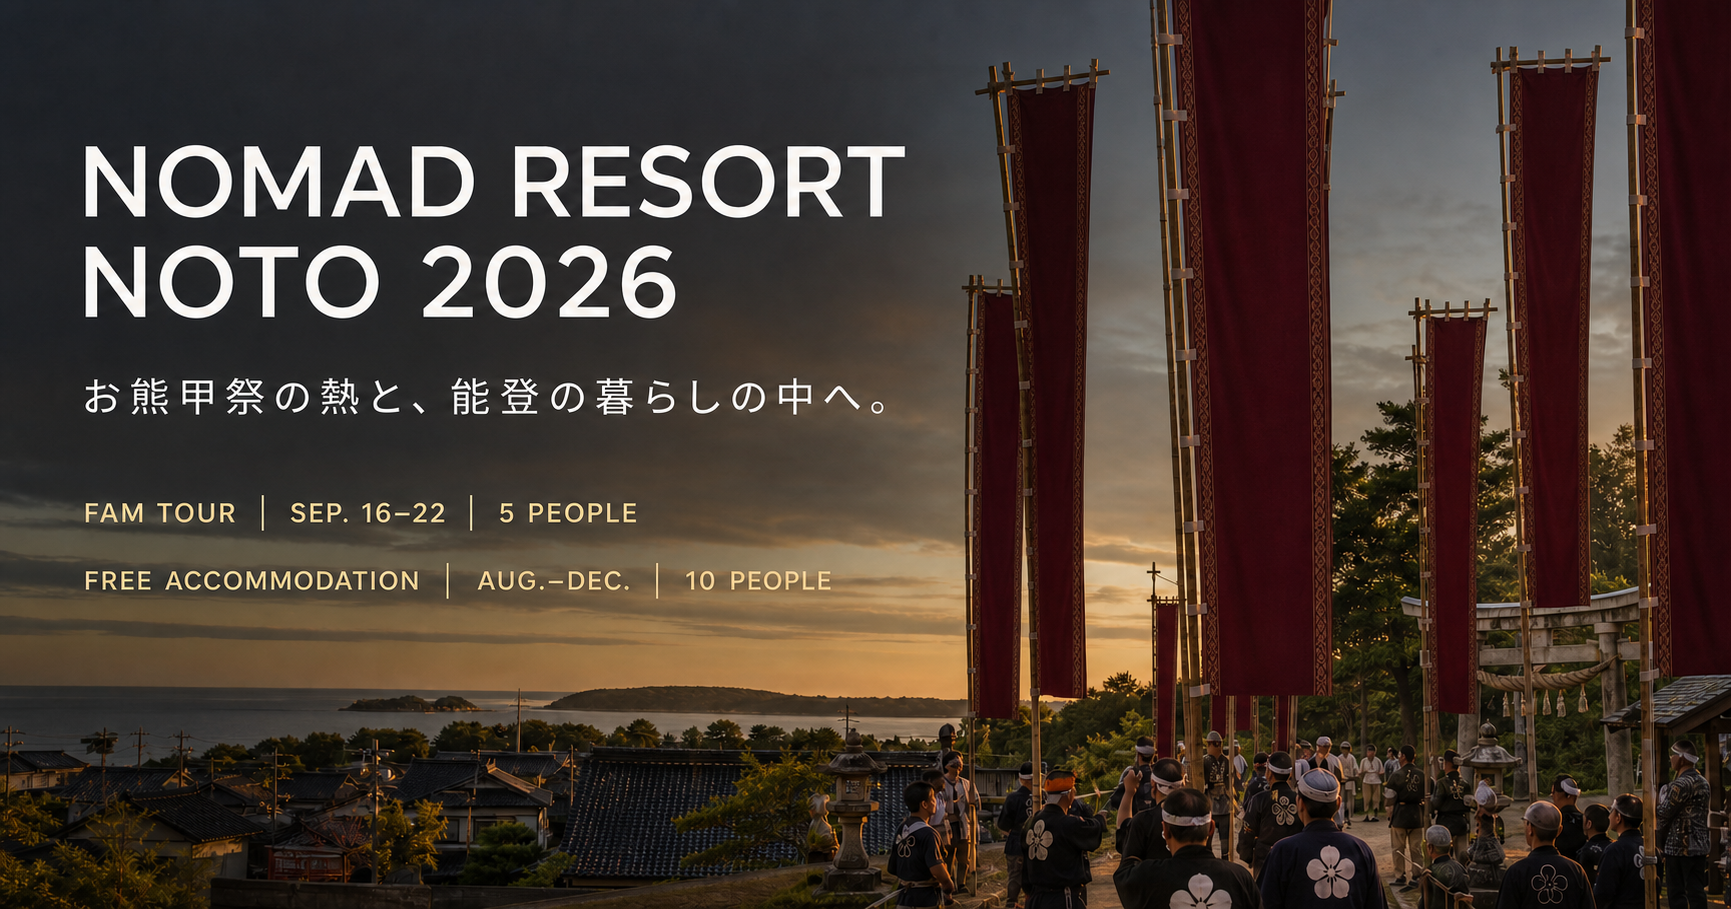
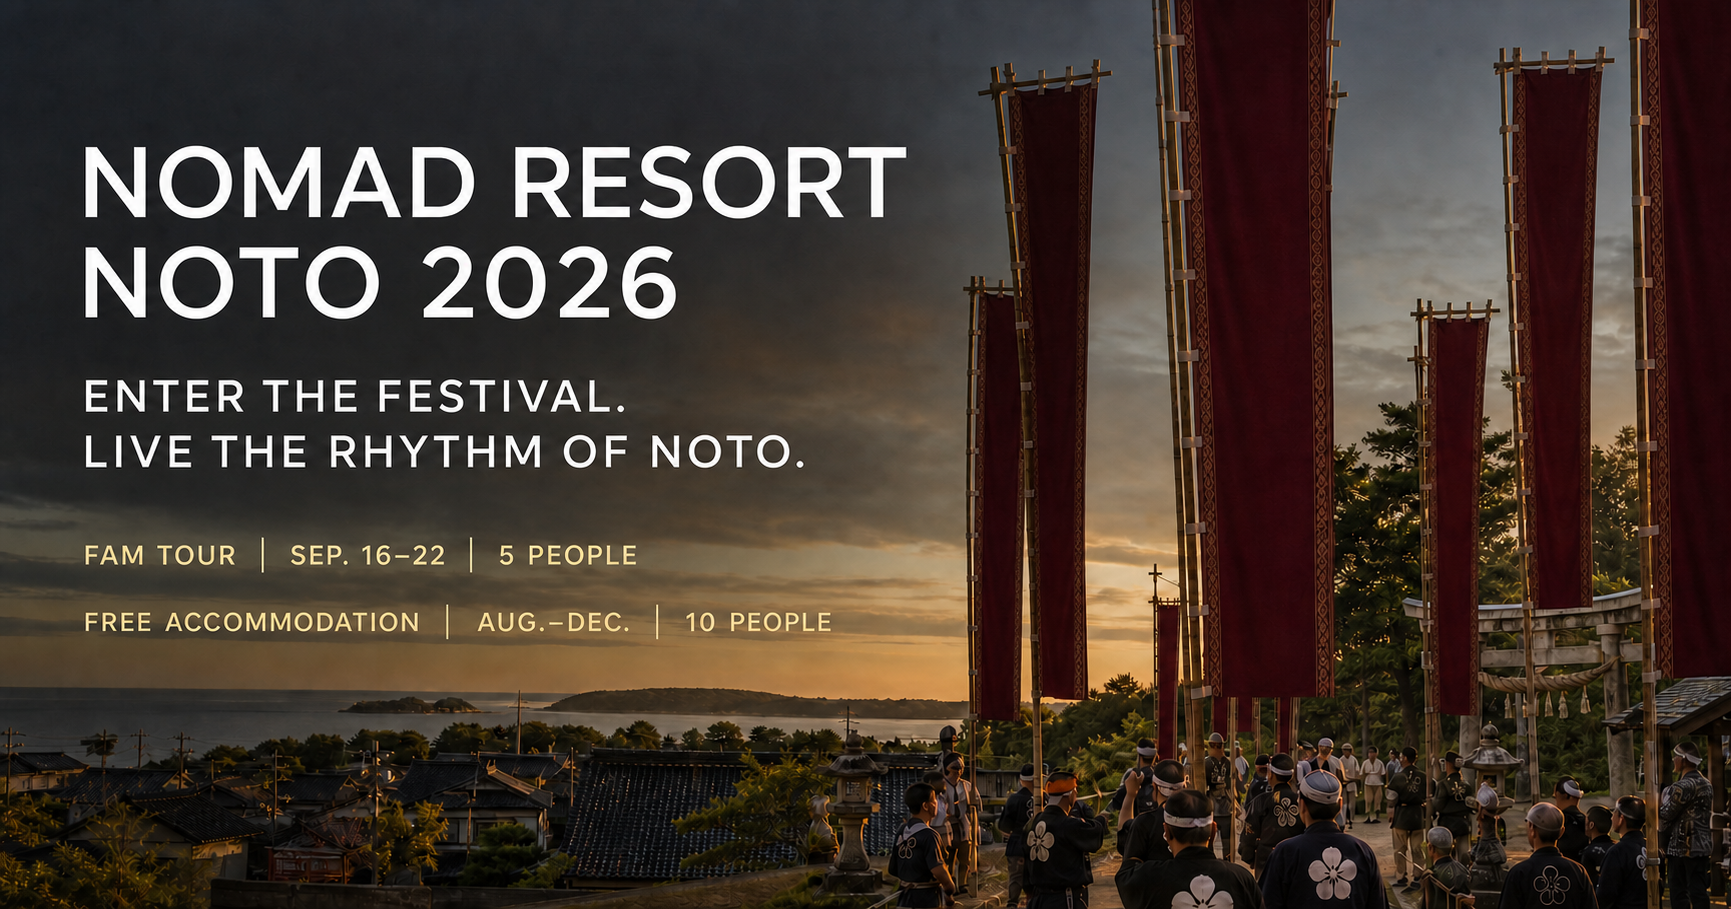
Make Noto landing page English-first

diff --git a/app/globals.css b/app/globals.css
@@ -25,7 +25,7 @@ body {
   color: var(--ink);
   font-family: "Arapey", "Yu Mincho", "Hiragino Mincho ProN", serif;
   line-height: 1.8;
-  letter-spacing: 0.045em;
+  letter-spacing: 0.02em;
   overflow-x: hidden;
 }
 
@@ -34,10 +34,11 @@ img { display: block; width: 100%; }
 button, a { -webkit-tap-highlight-color: transparent; }
 a:focus-visible, button:focus-visible, summary:focus-visible { outline: 2px solid var(--gold); outline-offset: 4px; }
 .shell { width: var(--shell); margin-inline: auto; }
-.lang-en { display: none; }
-[data-lang="en"] .lang-ja { display: none; }
-[data-lang="en"] .lang-en { display: inline; }
-[data-lang="en"] body { letter-spacing: 0.02em; }
+.lang-ja { display: none; }
+.lang-en { display: inline; }
+[data-lang="ja"] .lang-en { display: none; }
+[data-lang="ja"] .lang-ja { display: inline; }
+[data-lang="ja"] body { letter-spacing: 0.045em; }
 h1 .lang-ja, h1 .lang-en,
 h2 .lang-ja, h2 .lang-en { white-space: pre-line; }
 
@@ -66,8 +67,9 @@ h2 .lang-ja, h2 .lang-en { white-space: pre-line; }
   backdrop-filter: blur(14px);
 }
 .language-toggle button {
-  width: 38px;
+  min-width: 38px;
   height: 30px;
+  padding: 0 10px;
   border: 0;
   border-radius: 999px;
   background: transparent;
@@ -167,7 +169,8 @@ h2 .lang-ja, h2 .lang-en { white-space: pre-line; }
 .island-image { position: relative; margin-top: 72px; height: min(64vw, 680px); overflow: hidden; }
 .island-image img { height: 100%; object-fit: cover; }
 .island-image::after { content:""; position:absolute; inset:0; background:linear-gradient(0deg,rgba(0,0,0,.38),transparent 45%); }
-.island-image span { position: absolute; z-index: 1; left: 24px; bottom: 20px; color: white; font: 700 8px/1 Arial,sans-serif; letter-spacing: .18em; }
+.island-image span { position: absolute; z-index: 1; left: 24px; right: 24px; bottom: 20px; display: flex; justify-content: space-between; gap: 24px; color: white; font: 700 8px/1.4 Arial,sans-serif; letter-spacing: .18em; }
+.island-image span a { padding-bottom: 3px; border-bottom: 1px solid rgba(255,255,255,.7); }
 .hanami-card { margin-top: 70px; display: grid; grid-template-columns: 1.08fr .92fr; background: var(--paper); box-shadow: 0 24px 80px rgba(50,43,36,.08); }
 .hanami-gallery { position: relative; min-height: 560px; }
 .hanami-gallery img:first-child { height: 100%; object-fit: cover; }
@@ -252,7 +255,9 @@ h2 .lang-ja, h2 .lang-en { white-space: pre-line; }
 .requirement-card dt { font: 700 9px/1.6 Arial,sans-serif; letter-spacing: .08em; }
 .requirement-card dd { margin: 0; font-family: "Yu Mincho", serif; font-size: 11px; line-height: 1.9; }
 [data-lang="en"] .requirement-card dd { font-family: Georgia, serif; }
-.requirements-actions { padding-top: 42px; display: flex; justify-content: space-between; gap: 32px; align-items: center; }
+.requirements-actions { padding-top: 42px; display: grid; grid-template-columns: minmax(280px, .8fr) 1.2fr; gap: 48px; align-items: center; }
+.shared-apply-button { width: 100%; min-height: 62px; }
+.requirements-meta { display: flex; justify-content: space-between; gap: 32px; align-items: center; }
 .requirements-actions .text-link { margin-top: 0; color: var(--gold); }
 .requirements-actions p { margin: 0; color: rgba(255,255,255,.54); font: 400 9px/1.8 Arial,sans-serif; }
 
@@ -285,6 +290,7 @@ footer { padding: 80px 0 24px; background: #10100f; color: white; }
   .free-categories > div:nth-last-child(-n+2) { border-bottom: 0; }
   .faq-heading { position: static; }
   .requirements-grid { grid-template-columns: 1fr; }
+  .requirements-actions { grid-template-columns: 1fr; }
   .footer-inner { grid-template-columns: 1fr; gap: 34px; text-align: center; }
   .footer-inner .wordmark { margin-inline: auto; }
   .footer-links { justify-content: center; }
@@ -314,6 +320,8 @@ footer { padding: 80px 0 24px; background: #10100f; color: white; }
   .festival-facts > div { min-height: 90px; padding: 13px; border-bottom: 1px solid rgba(255,255,255,.17); }
   .festival-facts strong { font-size: 24px; }
   .island-image { height: 72vw; }
+  .island-image span { left: 14px; right: 14px; bottom: 13px; flex-direction: column; gap: 8px; }
+  .island-image span a { width: max-content; max-width: 100%; }
   .hanami-gallery { min-height: 410px; }
   .hanami-gallery img:last-child { width: 47%; height: 150px; border-width: 6px; }
   .hanami-copy { padding: 34px 25px; }
@@ -334,7 +342,7 @@ footer { padding: 80px 0 24px; background: #10100f; color: white; }
   .faq-list details p { padding-left: 44px; }
   .requirement-card { padding: 34px 24px; }
   .requirement-card dl > div { grid-template-columns: 72px 1fr; gap: 12px; }
-  .requirements-actions { flex-direction: column; align-items: flex-start; }
+  .requirements-meta { flex-direction: column; align-items: flex-start; }
 }
 
 @media (prefers-reduced-motion: reduce) {

diff --git a/app/page.tsx b/app/page.tsx
@@ -8,6 +8,7 @@ const instagramUrl = "https://www.instagram.com/nomadresort_noto/";
 const officialUrl = "https://noto.nomadresort.jp/ja/";
 const festivalUrl = "https://okumakabuto.jp/";
 const hanamiUrl = "https://www.hanaminotojima.com/";
+const notojimaPhotoUrl = "https://www.notojima.org/time/1317.html";
 
 type Copy = { ja: string; en: string };
 
@@ -135,10 +136,7 @@ export default function Home() {
           </div>
           <div className="hero-actions">
             <a className="button button-gold" href="#requirements">
-              <Bi ja="募集要項を見る" en="View application details" /> <span aria-hidden="true">↓</span>
-            </a>
-            <a className="button button-ghost" href="#free">
-              <Bi ja="フリーアコモを見る" en="Explore free accommodation" /> <span aria-hidden="true">↓</span>
+              <Bi ja="2つのプログラムを見る" en="Explore both programs" /> <span aria-hidden="true">↓</span>
             </a>
           </div>
         </div>
@@ -209,8 +207,11 @@ export default function Home() {
           </div>
         </div>
         <div className="island-image shell">
-          <img src="/noto/notojima-bridge.jpg" alt="七尾湾に架かる能登島大橋" />
-          <span>NOTOJIMA / NANAO BAY / ISHIKAWA</span>
+          <img src="/noto/notojima-suso.jpg" alt="A quiet coastal village in Susomachi, Notojima / 能登島須曽町の静かな海辺の集落" />
+          <span>
+            NOTOJIMA / SUSOMACHI / NANAO BAY
+            <a href={notojimaPhotoUrl} target="_blank" rel="noreferrer">PHOTO: NOTOJIMA TOURISM ASSOCIATION ↗</a>
+          </span>
         </div>
 
         <article className="hanami-card shell">
@@ -336,9 +337,6 @@ export default function Home() {
               <div><dt><Bi ja="提供" en="Included" /></dt><dd><Bi ja="宿泊6泊、指定アクティビティ、夕食・交流3回、コミュニティプログラム" en="Six nights, listed activities, three hosted dinners/gatherings, and community program" /></dd></div>
               <div><dt><Bi ja="自己負担" en="Self-pay" /></dt><dd><Bi ja="往復交通、朝食・昼食、任意の飲食・体験、保険・個人費用" en="Travel, breakfast, lunch, optional food/activities, insurance, and personal costs" /></dd></div>
             </dl>
-            <a className="button button-gold full-button" href={applicationForm} target="_blank" rel="noreferrer">
-              <Bi ja="FAM Tourに応募" en="Apply for the FAM Tour" /> <Arrow />
-            </a>
           </article>
 
           <article className="requirement-card free-requirement">
@@ -352,16 +350,18 @@ export default function Home() {
               <div><dt><Bi ja="提供" en="Included" /></dt><dd><Bi ja="宿泊、コワーキング、地域紹介、交流・参画機会" en="Accommodation, coworking, local introductions, and opportunities to connect" /></dd></div>
               <div><dt><Bi ja="自己負担" en="Self-pay" /></dt><dd><Bi ja="交通、食費、生活費、保険・ビザ、有料体験、同伴者宿泊" en="Travel, food, living costs, insurance/visa, paid activities, and companion stay" /></dd></div>
             </dl>
-            <a className="button button-dark full-button" href={applicationForm} target="_blank" rel="noreferrer">
-              <Bi ja="フリーアコモに応募" en="Apply for Free Accommodation" /> <Arrow />
-            </a>
           </article>
         </div>
         <div className="requirements-actions shell">
-          <a className="text-link light-link" href={termsUrl} target="_blank" rel="noreferrer">
-            <Bi ja="応募前に詳細規約を読む" en="Read the full terms before applying" /> <Arrow />
+          <a className="button button-gold shared-apply-button" href={applicationForm} target="_blank" rel="noreferrer">
+            <Bi ja="いずれかのプログラムに応募" en="Apply for either program" /> <Arrow />
           </a>
-          <p><Bi ja="応募フォームで希望するプログラムを選択してください。" en="Select your preferred program in the application form." /></p>
+          <div className="requirements-meta">
+            <a className="text-link light-link" href={termsUrl} target="_blank" rel="noreferrer">
+              <Bi ja="応募前に詳細規約を読む" en="Read the full terms before applying" /> <Arrow />
+            </a>
+            <p><Bi ja="共通フォーム内で希望するプログラムを選択できます。" en="Choose your preferred program inside the shared application form." /></p>
+          </div>
         </div>
       </section>
 

diff --git a/app/layout.tsx b/app/layout.tsx
@@ -3,38 +3,38 @@ import "./globals.css";
 
 export const metadata: Metadata = {
   metadataBase: new URL("https://nomad-resort-noto-2026.roccan.chatgpt.site"),
-  title: "Nomad Resort Noto 2026｜お熊甲祭 FAM Tour",
+  title: "Nomad Resort Noto 2026 | Okuma Kabuto FAM Tour",
   description:
-    "お熊甲祭の熱と、能登島の暮らしの中へ。2026年9月16日〜22日の5名限定FAM Tourと、10名のFree Accommodation。",
+    "Enter the Okuma Kabuto Festival and live the rhythm of Notojima. A five-person FAM Tour and a ten-person Free Accommodation Program in 2026.",
   icons: { icon: "/favicon.png", shortcut: "/favicon.png" },
   openGraph: {
-    title: "Nomad Resort Noto 2026｜お熊甲祭 FAM Tour",
+    title: "Nomad Resort Noto 2026 | Okuma Kabuto FAM Tour",
     description:
-      "お熊甲祭の熱と、能登島の暮らしの中へ。5名限定FAM Tourと10名のFree Accommodation。",
+      "Enter the festival. Live the rhythm of Noto. A five-person FAM Tour and a ten-person Free Accommodation Program.",
     type: "website",
-    locale: "ja_JP",
-    alternateLocale: ["en_US"],
+    locale: "en_US",
+    alternateLocale: ["ja_JP"],
     images: [
       {
         url: "/og.png",
         width: 1731,
         height: 909,
-        alt: "Nomad Resort Noto 2026 — お熊甲祭の熱と、能登の暮らしの中へ。",
+        alt: "Nomad Resort Noto 2026 — Enter the festival. Live the rhythm of Noto.",
       },
     ],
   },
   twitter: {
     card: "summary_large_image",
-    title: "Nomad Resort Noto 2026｜お熊甲祭 FAM Tour",
+    title: "Nomad Resort Noto 2026 | Okuma Kabuto FAM Tour",
     description:
-      "お熊甲祭の熱と、能登島の暮らしの中へ。5名限定FAM Tourと10名のFree Accommodation。",
+      "Enter the festival. Live the rhythm of Noto. A five-person FAM Tour and a ten-person Free Accommodation Program.",
     images: ["/og.png"],
   },
 };
 
 export default function RootLayout({ children }: Readonly<{ children: React.ReactNode }>) {
   return (
-    <html lang="ja">
+    <html lang="en" data-lang="en">
       <body>{children}</body>
     </html>
   );

diff --git a/app/LanguageToggle.tsx b/app/LanguageToggle.tsx
@@ -5,11 +5,11 @@ import { useEffect, useState } from "react";
 type Language = "ja" | "en";
 
 export function LanguageToggle() {
-  const [language, setLanguage] = useState<Language>("ja");
+  const [language, setLanguage] = useState<Language>("en");
 
   useEffect(() => {
     const stored = window.localStorage.getItem("noto-language");
-    const initial: Language = stored === "en" ? "en" : "ja";
+    const initial: Language = stored === "ja" ? "ja" : "en";
     setLanguage(initial);
     document.documentElement.dataset.lang = initial;
     document.documentElement.lang = initial;
@@ -24,8 +24,8 @@ export function LanguageToggle() {
 
   return (
     <div className="language-toggle" aria-label="Language / 言語">
-      <button type="button" className={language === "ja" ? "active" : ""} aria-pressed={language === "ja"} onClick={() => choose("ja")}>JA</button>
       <button type="button" className={language === "en" ? "active" : ""} aria-pressed={language === "en"} onClick={() => choose("en")}>EN</button>
+      <button type="button" className={language === "ja" ? "active" : ""} aria-pressed={language === "ja"} onClick={() => choose("ja")}>日本語</button>
     </div>
   );
 }
